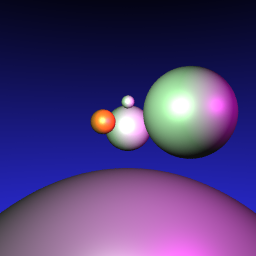
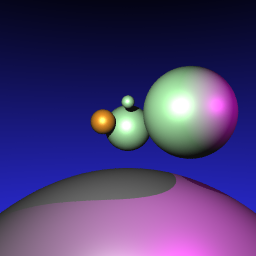
A4: added shadow ray casting

diff --git a/A4/A4.cpp b/A4/A4.cpp
@@ -8,6 +8,8 @@
 #include "PhongMaterial.hpp"
 #include <array>
 
+#define EPSILON 0.0001
+
 using namespace std;
 using namespace glm;
 
@@ -48,31 +50,39 @@ vec3 rayColor(
 
 	HitRecord record, shadowRecord;
 
-	if (scene->hit(ray, 0.0001, std::numeric_limits<float>::max(), record)) {
+	if (scene->hit(ray, EPSILON, std::numeric_limits<float>::infinity(), record)) {
 		// Perform Blinn-Phong shading for each lightsource
 		if (record.material->m_materialType == MaterialType::PhongMaterial) {
-			vec3 p = ray.getOrigin() + record.t * ray.getDirection();
 
-			vec3 L(0.2*ambient);
+			vec3 color(0.2*ambient);
 
 			for (const Light * light: lights) {
-				PhongMaterial *phongMaterial = static_cast<PhongMaterial *>(record.material);
 
-				vec3 kd = phongMaterial->getKd();
-				vec3 ks = phongMaterial->getKs();
-				double shininess = phongMaterial->getShininess();
+				vec3 pAdjusted = record.p + (light->position - record.p) * EPSILON;
 
-				vec3 n = normalize(record.normal);
-				vec3 l = normalize(light->position - ray.pointAtParameter(record.t));
-				vec3 v = normalize(eye - ray.pointAtParameter(record.t));
+				Ray shadowRay(pAdjusted, light->position - pAdjusted);
 
-				vec3 h = normalize(length(v)*l + length(l)*v);
+				if (!scene->hit(shadowRay, EPSILON, std::numeric_limits<float>::infinity(), shadowRecord)) {
+					vec3 l = normalize(shadowRay.getDirection());
+					vec3 n = normalize(record.normal);
 
-				L += kd*light->colour*glm::max((float)0.0, dot(n, l)) +
-					ks*light->colour*glm::pow(glm::max((float)0.0, dot(n, h)), shininess);
+					PhongMaterial *phongMaterial = static_cast<PhongMaterial *>(record.material);
+
+					vec3 kd = phongMaterial->getKd();
+					vec3 ks = phongMaterial->getKs();
+					double shininess = phongMaterial->getShininess();
+					
+					vec3 v = normalize(eye - ray.pointAtParameter(record.t));
+
+					vec3 h = normalize(length(v)*l + length(l)*v);
+
+					color += kd * light->colour * glm::max((float)0.0, dot(n, l)) +
+						     ks * light->colour * glm::pow(glm::max((float)0.0, dot(n, h)), shininess);
+
+				}
 			}
 
-			return L;
+			return color;
 		}
 
 		// return 0.5 * vec3(record.normal.x+1, record.normal.y+1, record.normal.z+1);

diff --git a/A4/Primitive.cpp b/A4/Primitive.cpp
@@ -4,6 +4,8 @@
 #include "Primitive.hpp"
 #include "polyroots.hpp"
 
+#define EPSILON 0.0001
+
 Primitive::~Primitive()
 {
 }
@@ -97,14 +99,15 @@ bool NonhierCuboid::hit(const Ray &ray, float t_min, float t_max, HitRecord &rec
 
     // Intersection case
     record.t = (tMin < 0 && tMax > 0) ? tMax : tMin;
+    // record.t = tMin;
     record.p = ray.pointAtParameter(record.t);
 
-    if (glm::abs(record.p.x - minCorner.x) < 0.0001) record.normal = glm::vec3(-1.0f, 0, 0);
-    else if (glm::abs(record.p.x - maxCorner.x) < 0.0001) record.normal = glm::vec3(+1.0f, 0, 0);
-    else if (glm::abs(record.p.y - minCorner.y) < 0.0001) record.normal = glm::vec3(0, -1.0f, 0);
-    else if (glm::abs(record.p.y - maxCorner.y) < 0.0001) record.normal = glm::vec3(0, 1.0f, 0);
-    else if (glm::abs(record.p.z - minCorner.z) < 0.0001) record.normal = glm::vec3(0, 0, -1.0f);
-    else if (glm::abs(record.p.z - maxCorner.z) < 0.0001) record.normal = glm::vec3(0, 0, 1.0f);
+    if (glm::abs(record.p.x - minCorner.x) < EPSILON) record.normal = glm::vec3(-1.0f, 0, 0);
+    else if (glm::abs(record.p.x - maxCorner.x) < EPSILON) record.normal = glm::vec3(+1.0f, 0, 0);
+    else if (glm::abs(record.p.y - minCorner.y) < EPSILON) record.normal = glm::vec3(0, -1.0f, 0);
+    else if (glm::abs(record.p.y - maxCorner.y) < EPSILON) record.normal = glm::vec3(0, 1.0f, 0);
+    else if (glm::abs(record.p.z - minCorner.z) < EPSILON) record.normal = glm::vec3(0, 0, -1.0f);
+    else if (glm::abs(record.p.z - maxCorner.z) < EPSILON) record.normal = glm::vec3(0, 0, 1.0f);
     
     return true;
 
